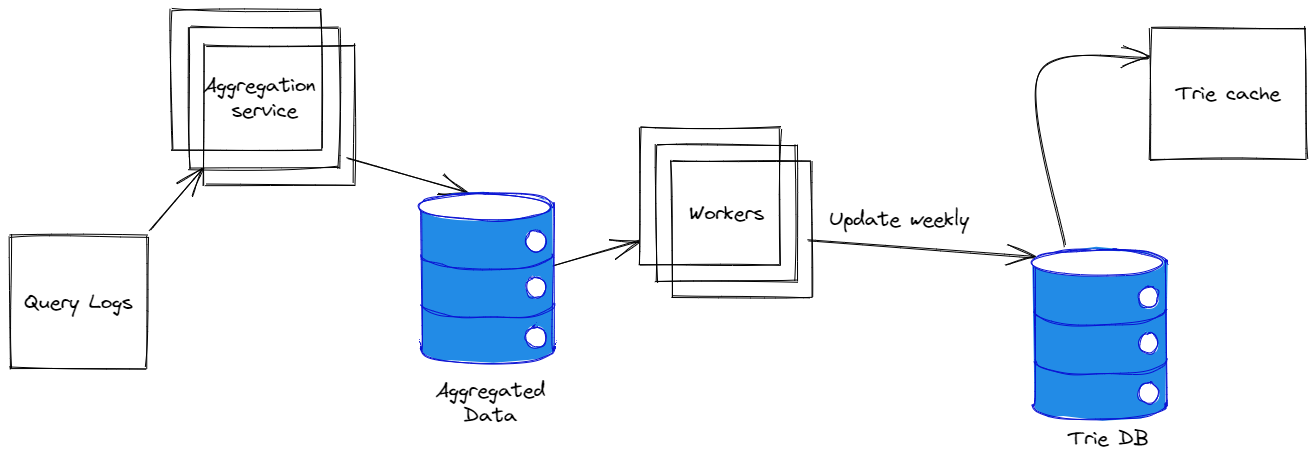
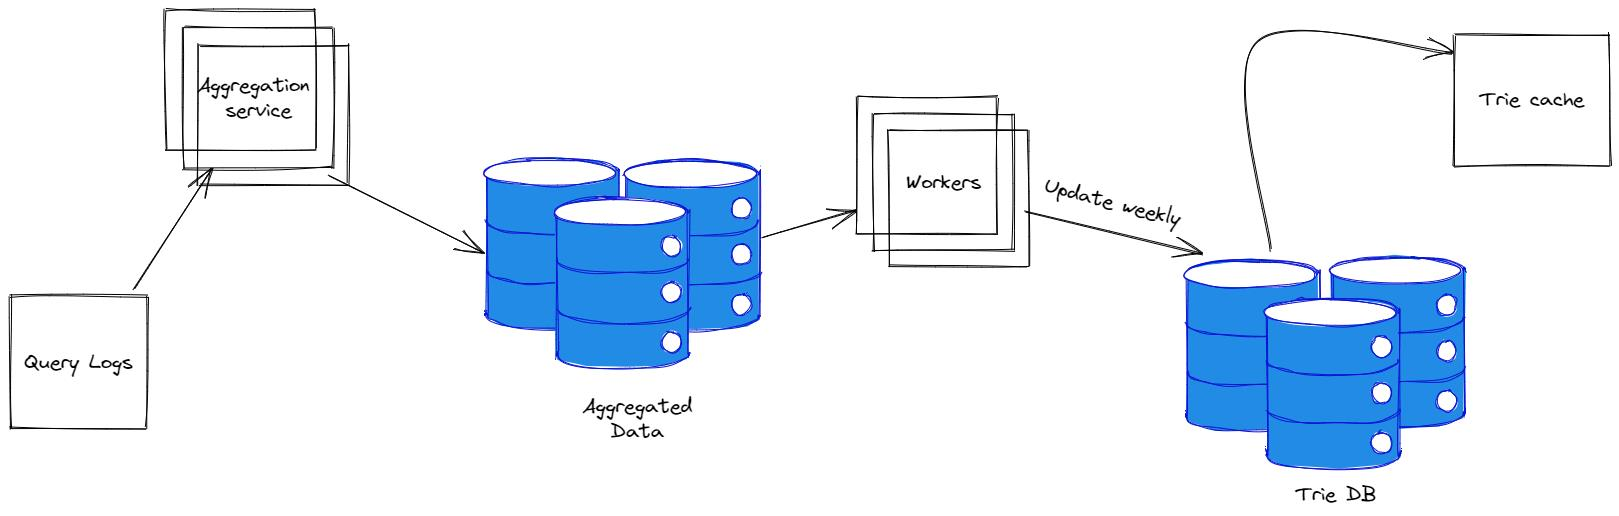
Update README.md

diff --git a/README.md b/README.md
@@ -1,5 +1,6 @@
 ## Frontend repo
-[Autocomplete UI](https://github.com/Yud-Bet/autocomplete-ui)
+[Autocomplete UI](https://github.com/Yud-Bet/autocomplete-ui)  
+[Ceeit on Air](https://autocomplete-ui-psooqiuavq-uc.a.run.app)
 
 ## System design
 ![System design](/assets/system-design.png "System design")
@@ -51,6 +52,10 @@ Trie is converted to hash table form and save to noSQL database.
 Service that perform search autocomplete.
 We can futher optimize query service by cache the result in the browser.
 ![Query service](/assets/query-service.png "Query service")
+
+### Shard map manager
+The next thing we want to look at is scaling the database.
+![Shard map manager](/assets/shard-map-manager.png "Shard map manager")
 
 ## Installation
 
